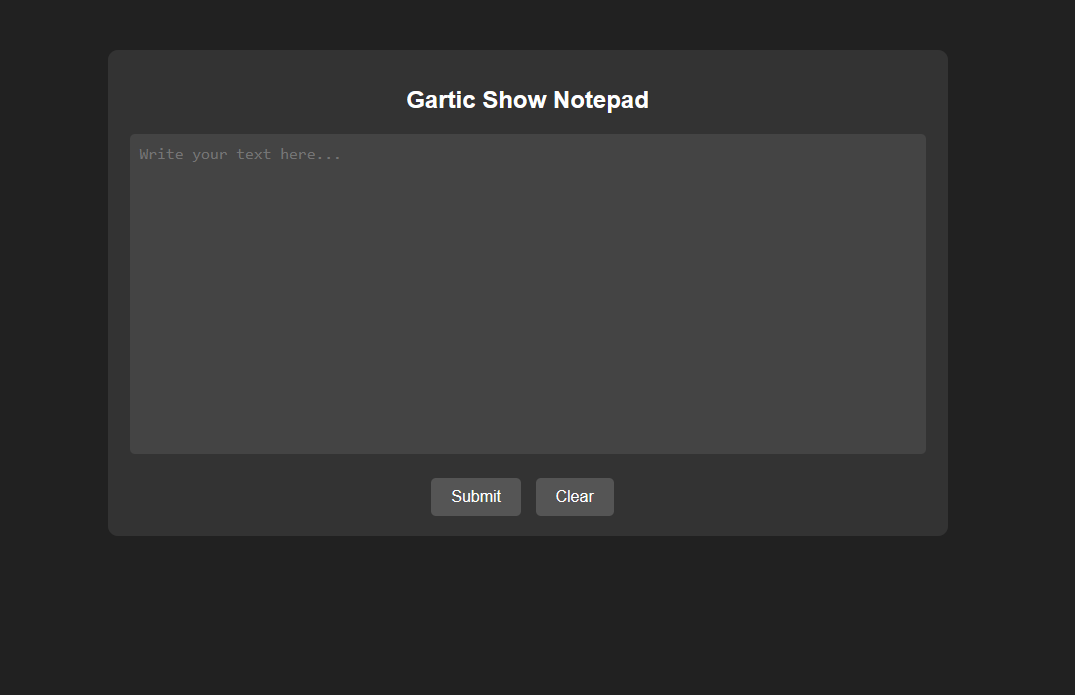
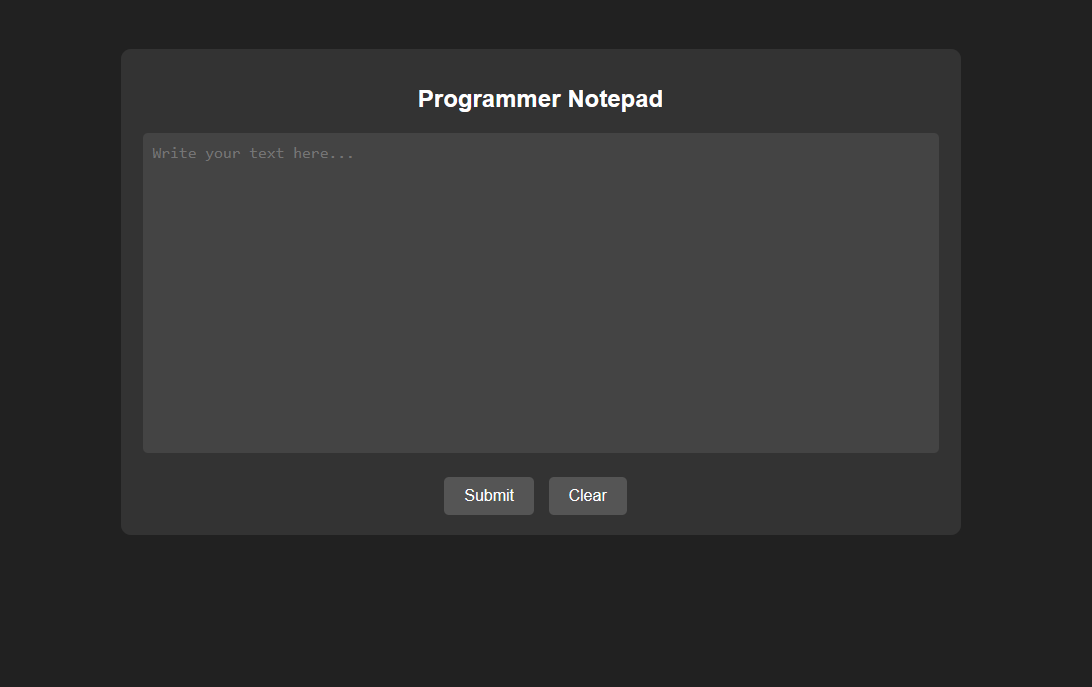
changed notepd name on site

Changed region(s): [[0.3991, 0.6725, 0.5833, 0.7642], [0.3684, 0.1223, 0.614, 0.1834], [0.1228, 0.214, 0.307, 0.2445]]

diff --git a/templates/index.html b/templates/index.html
@@ -31,7 +31,7 @@
 <body>
 <div class="container">
     <div class="header">
-        <h1>Gartic Show Notepad</h1>
+        <h1>Programmer Notepad</h1>
     </div>
     <div class="content">
         <form action="/submit" method="post">
